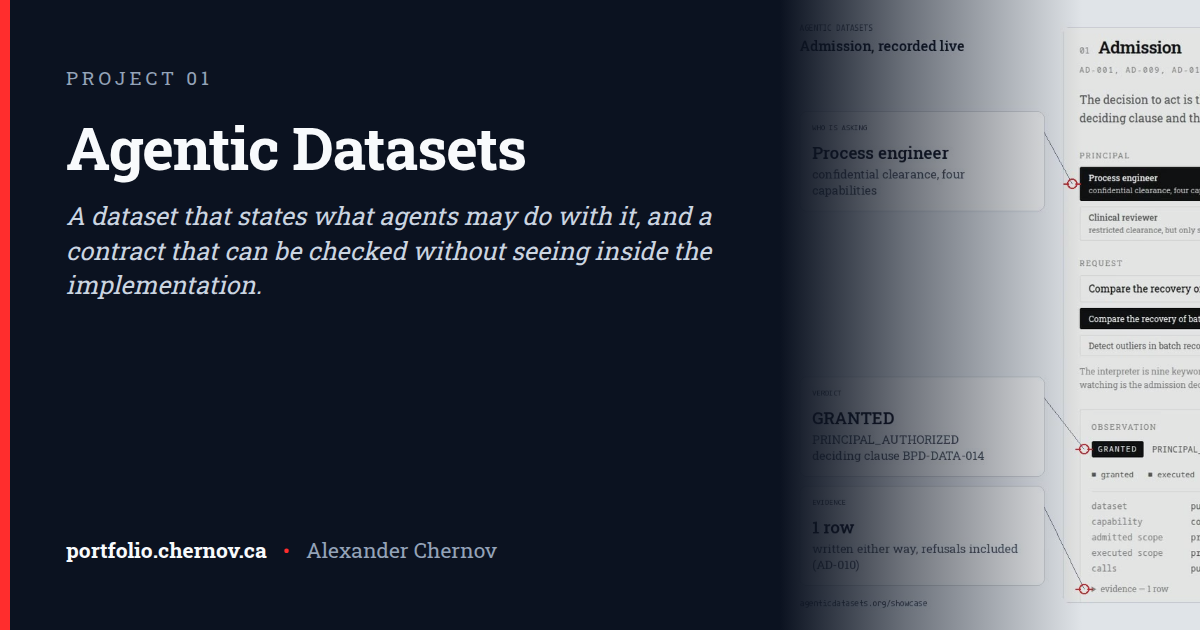
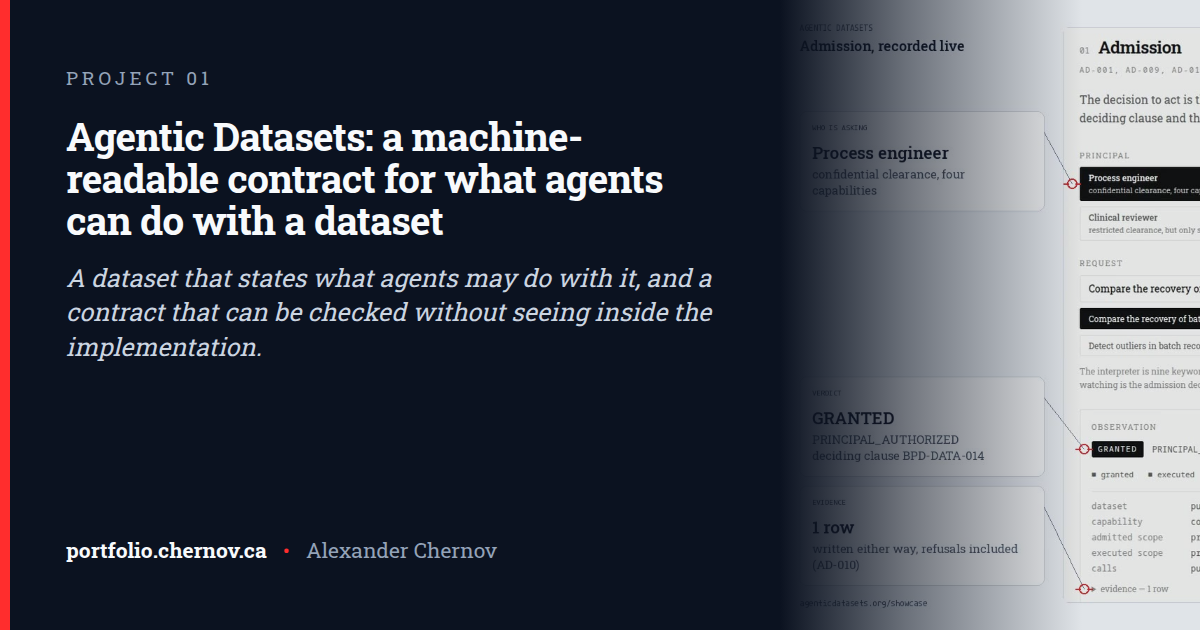
Project list: each project by its full title, the name before the colon in bold; Agentic Datasets titled with what it is; docs and its card rebuilt

Changed region(s): [[0.0308, 0.181, 0.6167, 0.5127], [0.0617, 0.5429, 0.2158, 0.573]]

diff --git a/docs/index.html b/docs/index.html
@@ -258,15 +258,15 @@ footer.bottom p{margin:0 0 .5rem}
       verify, and a verifiable entry earns the ones that follow it. Where a project has no public
       URL that is stated rather than hidden behind a link that returns 404. Each title is also a
       page of its own, which is what the copy button hands you.</p>
-    <nav class="project-index" aria-label="Projects on this page"><ol><li><a href="#agentic-datasets"><span class="pi-n">01</span><span>Agentic Datasets</span></a></li><li><a href="#per-task-admission-control"><span class="pi-n">02</span><span>Per-task admission control for genomics pipelines</span></a></li><li><a href="#croissant-policy-profile"><span class="pi-n">03</span><span>A policy profile for Croissant, the MLCommons dataset descriptor</span></a></li><li><a href="#selective-visual-inference"><span class="pi-n">04</span><span>Selective visual inference with observable decisions</span></a></li><li><a href="#certified-reuse-quantum"><span class="pi-n">05</span><span>Certified reuse of quantum results, with refusal as a visible outcome</span></a></li><li><a href="#semantic-gateway"><span class="pi-n">06</span><span>Semantic gateway</span></a></li><li><a href="#governed-clinical-variable-mapping"><span class="pi-n">07</span><span>Governed clinical variable mapping with browser-local reasoning</span></a></li><li><a href="#reproducible-spectral-scoring"><span class="pi-n">08</span><span>Reproducible spectral scoring with a fit-quality gate</span></a></li><li><a href="#chromatography-fraction-pooling"><span class="pi-n">09</span><span>Chromatography fraction pooling that ends by driving a robot</span></a></li><li><a href="#batch-records-as-typed-programs"><span class="pi-n">10</span><span>Batch records as typed programs</span></a></li><li><a href="#agent-scope"><span class="pi-n">11</span><span>Agent Scope</span></a></li><li><a href="#grafferene"><span class="pi-n">12</span><span>Grafferene</span></a></li><li><a href="#agentic-crawl"><span class="pi-n">13</span><span>Agentic Crawl</span></a></li><li><a href="#adam"><span class="pi-n">14</span><span>adam</span></a></li><li><a href="#agentic-loom"><span class="pi-n">15</span><span>Agentic Loom</span></a></li><li><a href="#agentic-delivery"><span class="pi-n">16</span><span>Agentic Delivery</span></a></li><li><a href="#agentic-lims"><span class="pi-n">17</span><span>Agentic LIMS</span></a></li><li><a href="#system-one"><span class="pi-n">18</span><span>System One</span></a></li><li><a href="#massive-gpu"><span class="pi-n">19</span><span>Massive GPU</span></a></li><li><a href="#semantic-gateway-demo"><span class="pi-n">20</span><span>Semantic Gateway demo</span></a></li><li><a href="#semantic-gateway-pdfs-demo"><span class="pi-n">21</span><span>Semantic Gateway for PDFs</span></a></li><li><a href="#agent-scope-gene-agents"><span class="pi-n">22</span><span>Gene agents</span></a></li><li><a href="#agent-scope-ops-agent"><span class="pi-n">23</span><span>Ops agent</span></a></li><li><a href="#pseudo"><span class="pi-n">24</span><span>Pseudo</span></a></li><li><a href="#awaw-ai"><span class="pi-n">25</span><span>awaw.ai</span></a></li></ol></nav>
+    <nav class="project-index" aria-label="Projects on this page"><ol><li><a href="#agentic-datasets"><span class="pi-n">01</span><span><strong>Agentic Datasets</strong>: a machine-readable contract for what agents can do with a dataset</span></a></li><li><a href="#per-task-admission-control"><span class="pi-n">02</span><span>Per-task admission control for genomics pipelines</span></a></li><li><a href="#croissant-policy-profile"><span class="pi-n">03</span><span>A policy profile for Croissant, the MLCommons dataset descriptor</span></a></li><li><a href="#selective-visual-inference"><span class="pi-n">04</span><span>Selective visual inference with observable decisions</span></a></li><li><a href="#certified-reuse-quantum"><span class="pi-n">05</span><span>Certified reuse of quantum results, with refusal as a visible outcome</span></a></li><li><a href="#semantic-gateway"><span class="pi-n">06</span><span><strong>Semantic gateway</strong>: search, graph and MCP over any data source</span></a></li><li><a href="#governed-clinical-variable-mapping"><span class="pi-n">07</span><span>Governed clinical variable mapping with browser-local reasoning</span></a></li><li><a href="#reproducible-spectral-scoring"><span class="pi-n">08</span><span>Reproducible spectral scoring with a fit-quality gate</span></a></li><li><a href="#chromatography-fraction-pooling"><span class="pi-n">09</span><span>Chromatography fraction pooling that ends by driving a robot</span></a></li><li><a href="#batch-records-as-typed-programs"><span class="pi-n">10</span><span>Batch records as typed programs</span></a></li><li><a href="#agent-scope"><span class="pi-n">11</span><span><strong>Agent Scope</strong>: a live map of agents, policies and the gate they must pass</span></a></li><li><a href="#grafferene"><span class="pi-n">12</span><span><strong>Grafferene</strong>: measure what a response cache would save before it serves an answer</span></a></li><li><a href="#agentic-crawl"><span class="pi-n">13</span><span><strong>Agentic Crawl</strong>: collect what a goal needs from the web, and nothing the sites’ rules forbid</span></a></li><li><a href="#adam"><span class="pi-n">14</span><span><strong>adam</strong>: AI-written ADaM derivations, accepted only on an exact match</span></a></li><li><a href="#agentic-loom"><span class="pi-n">15</span><span><strong>Agentic Loom</strong>: governed batch recipes in which every step is admitted before it runs</span></a></li><li><a href="#agentic-delivery"><span class="pi-n">16</span><span><strong>Agentic Delivery</strong>: governed software delivery in which agents propose and a gate decides</span></a></li><li><a href="#agentic-lims"><span class="pi-n">17</span><span><strong>Agentic LIMS</strong>: lab data that carries its lineage and decides its own use</span></a></li><li><a href="#system-one"><span class="pi-n">18</span><span><strong>System One</strong>: a small trained model that judges dataset requests</span></a></li><li><a href="#massive-gpu"><span class="pi-n">19</span><span><strong>Massive GPU</strong>: a simulated fleet with a real control path</span></a></li><li><a href="#semantic-gateway-demo"><span class="pi-n">20</span><span><strong>Semantic Gateway demo</strong>: one data estate behind one policy gate</span></a></li><li><a href="#semantic-gateway-pdfs-demo"><span class="pi-n">21</span><span><strong>Semantic Gateway for PDFs</strong>: every value where it stands on its page</span></a></li><li><a href="#agent-scope-gene-agents"><span class="pi-n">22</span><span><strong>Gene agents</strong>: clinical evidence decided under each agent’s own policy, with a gated quantum step</span></a></li><li><a href="#agent-scope-ops-agent"><span class="pi-n">23</span><span><strong>Ops agent</strong>: orders in chat, decided by a gate and read back from a live cluster</span></a></li><li><a href="#pseudo"><span class="pi-n">24</span><span><strong>Pseudo</strong>: coding practice in Python or in blocks, judged on cases the solver never sees</span></a></li><li><a href="#awaw-ai"><span class="pi-n">25</span><span><strong>awaw.ai</strong>: compact, governed AI that runs on hardware an enterprise already has</span></a></li></ol></nav>
     <article class="project" id="agentic-datasets">
 <div class="project-head">
 <span class="num">01</span>
 <div class="project-title">
-<h3><a class="self" href="p/agentic-datasets.html">Agentic Datasets</a></h3>
+<h3><a class="self" href="p/agentic-datasets.html">Agentic Datasets: a machine-readable contract for what agents can do with a dataset</a></h3>
 <p class="meta">2025 – present · <span class="aff"><img src="img/logo/astrazeneca-symbol.svg" alt="" class="aff-logo" width="37" height="47" decoding="async">AstraZeneca</span></p>
 </div>
-<button class="copy" type="button" data-copy="p/agentic-datasets.html" aria-label="Copy link to Agentic Datasets" title="Copy link to Agentic Datasets"><span class="copy-icon" aria-hidden="true">#</span><span class="copy-text">Copy link</span></button>
+<button class="copy" type="button" data-copy="p/agentic-datasets.html" aria-label="Copy link to Agentic Datasets: a machine-readable contract for what agents can do with a dataset" title="Copy link to Agentic Datasets: a machine-readable contract for what agents can do with a dataset"><span class="copy-icon" aria-hidden="true">#</span><span class="copy-text">Copy link</span></button>
 </div>
 <p class="lede">A dataset that states what agents may do with it, and a contract that can be checked without seeing inside the implementation.</p>
 <p class="summary">Specification plus reference implementation. The contract runs to fifteen assertions and eighty-five executable steps, portable across languages, and has been exercised against four runtimes, two dataset boundaries and one unrelated codebase &mdash; every one of them passing, with seventeen deliberately broken variants all caught.</p>

diff --git a/docs/p/agentic-datasets.html b/docs/p/agentic-datasets.html
@@ -3,21 +3,21 @@
 <head>
 <meta charset="utf-8">
 <meta name="viewport" content="width=device-width, initial-scale=1, viewport-fit=cover">
-<title>Agentic Datasets — Alexander Chernov</title>
+<title>Agentic Datasets: a machine-readable contract for what agents can do with a dataset — Alexander Chernov</title>
 <meta name="description" content="Specification plus reference implementation. The contract runs to fifteen assertions and eighty-five executable steps, portable across languages, and has been exercised against four runtimes, two dataset boundaries and one unrelated codebase — every one of them passing, with seventeen deliberately…">
 <link rel="canonical" href="https://portfolio.chernov.ca/p/agentic-datasets.html">
 <link rel="icon" type="image/x-icon" href="../favicon.ico">
 <meta property="og:type" content="article">
 <meta property="og:site_name" content="Alexander Chernov — Portfolio">
-<meta property="og:title" content="Agentic Datasets — Alexander Chernov">
+<meta property="og:title" content="Agentic Datasets: a machine-readable contract for what agents can do with a dataset — Alexander Chernov">
 <meta property="og:description" content="Specification plus reference implementation. The contract runs to fifteen assertions and eighty-five executable steps, portable across languages, and has been exercised against four runtimes, two dataset boundaries and one unrelated codebase — every one of them passing, with seventeen deliberately…">
 <meta property="og:url" content="https://portfolio.chernov.ca/p/agentic-datasets.html">
 <meta property="og:image" content="https://portfolio.chernov.ca/og/agentic-datasets.png">
 <meta property="og:image:width" content="1200">
 <meta property="og:image:height" content="630">
-<meta property="og:image:alt" content="Agentic Datasets — Alexander Chernov">
+<meta property="og:image:alt" content="Agentic Datasets: a machine-readable contract for what agents can do with a dataset — Alexander Chernov">
 <meta name="twitter:card" content="summary_large_image">
-<meta name="twitter:title" content="Agentic Datasets — Alexander Chernov">
+<meta name="twitter:title" content="Agentic Datasets: a machine-readable contract for what agents can do with a dataset — Alexander Chernov">
 <meta name="twitter:description" content="Specification plus reference implementation. The contract runs to fifteen assertions and eighty-five executable steps, portable across languages, and has been exercised against four runtimes, two dataset boundaries and one unrelated codebase — every one of them passing, with seventeen deliberately…">
 <meta name="twitter:image" content="https://portfolio.chernov.ca/og/agentic-datasets.png">
 <script>
@@ -238,10 +238,10 @@ footer.bottom p{margin:0 0 .5rem}
 <div class="project-head">
 <span class="num">01</span>
 <div class="project-title">
-<h1>Agentic Datasets</h1>
+<h1>Agentic Datasets: a machine-readable contract for what agents can do with a dataset</h1>
 <p class="meta">2025 – present · <span class="aff"><img src="../img/logo/astrazeneca-symbol.svg" alt="" class="aff-logo" width="37" height="47" decoding="async">AstraZeneca</span></p>
 </div>
-<button class="copy" type="button" data-copy="../p/agentic-datasets.html" aria-label="Copy link to Agentic Datasets" title="Copy link to Agentic Datasets"><span class="copy-icon" aria-hidden="true">#</span><span class="copy-text">Copy link</span></button>
+<button class="copy" type="button" data-copy="../p/agentic-datasets.html" aria-label="Copy link to Agentic Datasets: a machine-readable contract for what agents can do with a dataset" title="Copy link to Agentic Datasets: a machine-readable contract for what agents can do with a dataset"><span class="copy-icon" aria-hidden="true">#</span><span class="copy-text">Copy link</span></button>
 </div>
 <p class="lede">A dataset that states what agents may do with it, and a contract that can be checked without seeing inside the implementation.</p>
 <p class="summary">Specification plus reference implementation. The contract runs to fifteen assertions and eighty-five executable steps, portable across languages, and has been exercised against four runtimes, two dataset boundaries and one unrelated codebase &mdash; every one of them passing, with seventeen deliberately broken variants all caught.</p>

diff --git a/build.py b/build.py
@@ -758,11 +758,20 @@ def section_head(anchor: str, heading: str, prefix: str) -> str:
     )
 
 
+def index_title(title: str) -> str:
+    """The full title, so every line says what the project does; a name before
+    the colon is set in bold so the list can still be scanned by name."""
+    name, sep, rest = title.partition(":")
+    if not sep:
+        return esc(title)
+    return f"<strong>{esc(name.strip())}</strong>: {esc(rest.strip())}"
+
+
 def project_index(projects: list[dict]) -> str:
-    """One link per project, to its entry below, by the short name before the title's colon."""
+    """One link per project, to its entry below, by its full title."""
     items = "".join(
         f'<li><a href="#{esc(p["slug"])}"><span class="pi-n">{i:02d}</span>'
-        f'<span>{esc(p["title"].split(":", 1)[0].strip())}</span></a></li>'
+        f'<span>{index_title(p["title"])}</span></a></li>'
         for i, p in enumerate(projects, start=1)
     )
     return f'<nav class="project-index" aria-label="Projects on this page"><ol>{items}</ol></nav>'
